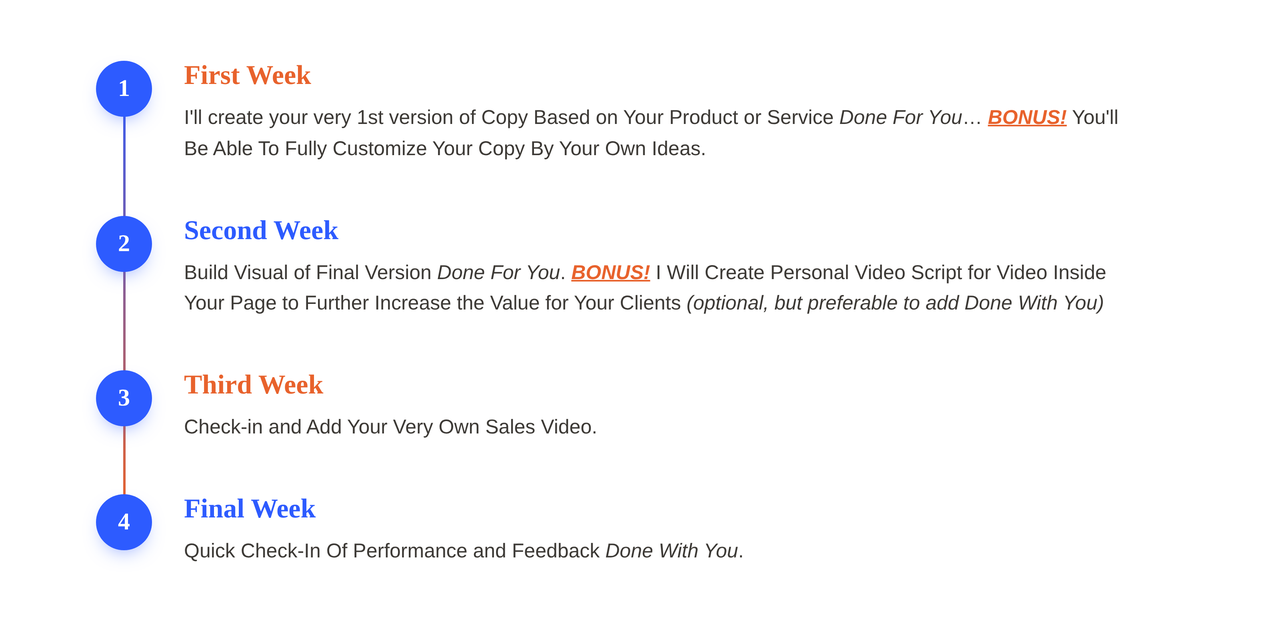
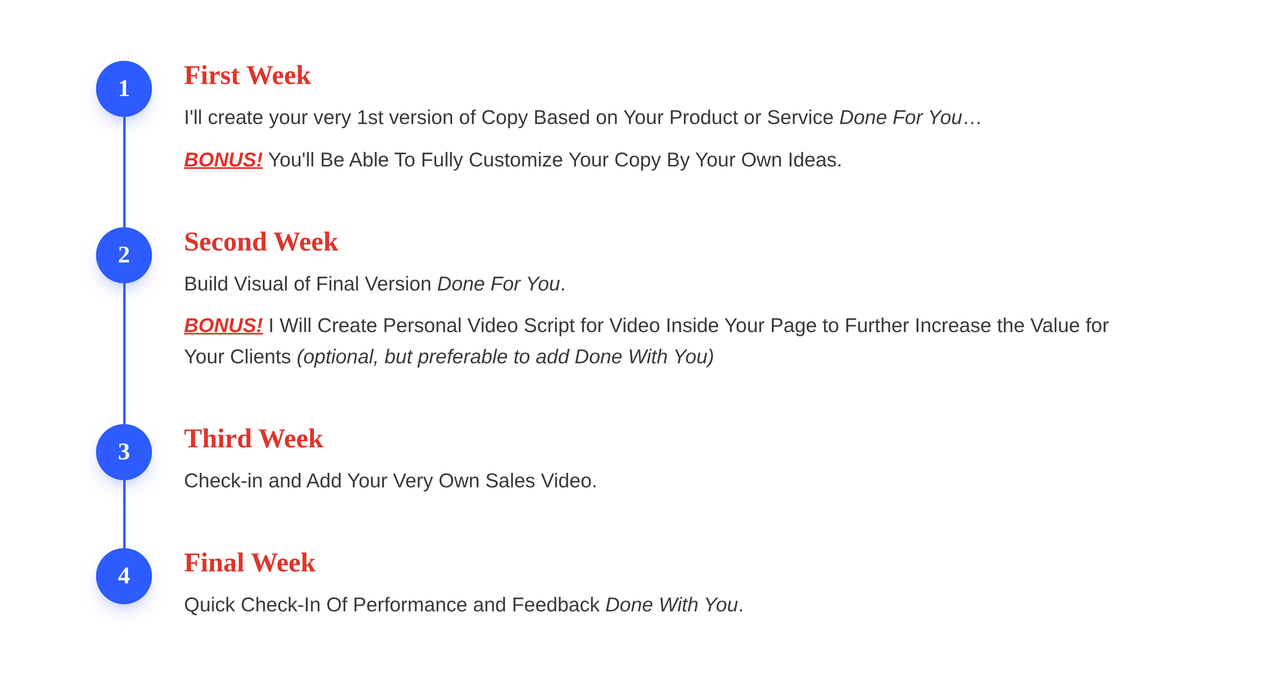
Color, sizing and layout follow-ups on /sales-page/
Fix the Rob Palmer quote's "act now" rendering black instead of
inheriting the quote's blue. Shift the second accent from orange to a
more saturated red (one CSS variable, applies everywhere it's used).
Enlarge and center the four "potential" stat lines and the "Special Way
of Structure" paragraph group to match the owner's reference sizing.
Regenerate the timeline graphic with separated sentences per week and
uniformly red week labels (was alternating blue/red, inconsistent with
the live text version). Push the desktop scale-up further — two
breakpoints, 1080px max container, larger type across headline, body,
buttons, quotes and headings — after the first pass still read as too
small on a real monitor.

diff --git a/public/assets/theme.css b/public/assets/theme.css
@@ -16,9 +16,9 @@
     /* second accent, used only on /sales-page/ for a subset of emphasis
        text (prices, week labels, "BONUS!") per the owner's reference —
        kept out of the shared palette above on purpose. */
-    --accent-2:#E8622C;
-    --accent-2-dark:#C94E1E;
-    --accent-2-tint:#FDECE3;
+    --accent-2:#E0342B;
+    --accent-2-dark:#B8241C;
+    --accent-2-tint:#FCE7E6;
     --success:#12996B;
     --success-tint:#E9F7F1;
     --warn:#C8382F;
@@ -876,10 +876,32 @@
   /* Desktop gets a wider column and a step up in type size — at 640px
      max-width the page reads fine on a phone but feels small and
      letterboxed on a real monitor. Mobile layout/sizing above is
-     untouched; this only kicks in once there's room to spare. */
+     untouched; this only kicks in once there's room to spare. Two tiers
+     so it keeps scaling up on genuinely large monitors instead of
+     capping out at the first bump. */
   @media(min-width:900px){
-    .sp-letter{max-width:760px;}
-    .sp-letter p{font-size:18px;}
+    .sp-letter{max-width:900px;padding:0 32px;}
+    .sp-letter p{font-size:20px;}
+    .sp-quote blockquote{font-size:20px;}
+    .sp-letter h2{font-size:26px;}
+    .btn, .sp-hero .btn{font-size:19px;padding:19px 34px;}
+    .sp-check-list li{font-size:19px;}
+    .sp-stack-row{font-size:17px;}
+    .sp-big{font-size:44px;}
+    .sp-potential-block p{font-size:27px !important;}
+    .sp-heading-lg{font-size:36px !important;}
+  }
+  @media(min-width:1280px){
+    .sp-letter{max-width:1080px;}
+    .sp-letter p{font-size:22px;}
+    .sp-quote blockquote{font-size:22.5px;}
+    .sp-letter h2{font-size:30px;}
+    .btn, .sp-hero .btn{font-size:20px;padding:21px 38px;}
+    .sp-check-list li{font-size:21px;}
+    .sp-stack-row{font-size:18.5px;}
+    .sp-big{font-size:50px;}
+    .sp-potential-block p{font-size:30px !important;}
+    .sp-heading-lg{font-size:40px !important;}
   }
 
   /* Each <section> is one topical beat, spaced by margin alone — see
@@ -929,7 +951,8 @@
     margin-bottom:20px;
   }
   @media(min-width:600px){.sp-h1{font-size:35px;}}
-  @media(min-width:900px){.sp-h1{font-size:42px;}}
+  @media(min-width:900px){.sp-h1{font-size:52px;}}
+  @media(min-width:1280px){.sp-h1{font-size:62px;}}
   .sp-h1 strong{font-weight:800;}
 
   /* highlighter marker behind "5 Minutes" */
@@ -956,6 +979,8 @@
     margin:0 auto 26px;text-align:left;
   }
   .sp-hero .btn{font-size:15.5px;padding:14px 30px;}
+  @media(min-width:900px){.sp-hero .because{font-size:19px;max-width:640px;}}
+  @media(min-width:1280px){.sp-hero .because{font-size:21px;max-width:720px;}}
 
   /* ---- pull-quotes ---- */
   /* Lightened from the earlier boxed/border-left treatment to a plain,
@@ -966,6 +991,11 @@
     font-family:Georgia,'Times New Roman',Times,serif;font-style:italic;
     font-size:17.5px;line-height:1.5;color:var(--accent);margin:0;
   }
+  /* .sp-letter strong sets every <strong> to --ink (black), which was
+     silently winning over this blockquote's blue on the "act now" bit —
+     same specificity, .sp-letter strong just happened to be declared
+     first. Force it back to the quote's own color here. */
+  .sp-quote blockquote strong{color:inherit;}
   .sp-quote-by{
     display:block;margin-top:9px;font-size:13.5px;font-style:normal;
     color:var(--ink-mute);letter-spacing:0.01em;
@@ -1058,18 +1088,25 @@
     text-decoration:underline;text-decoration-thickness:2px;text-underline-offset:2px;
   }
   /* oversized standalone stat line — "You Could Make $10 000!" */
-  .sp-big{font-size:24px;font-weight:800;display:block;color:var(--ink);}
+  .sp-big{font-size:32px;font-weight:800;display:block;color:var(--ink);line-height:1.25;}
+  @media(min-width:600px){.sp-big{font-size:38px;}}
   /* tight-set group of short stat/punch lines, read as one block rather
-     than as separate loosely-spaced paragraphs */
-  .sp-potential-block{margin-bottom:22px;}
-  .sp-potential-block p{margin-bottom:8px !important;}
+     than as separate loosely-spaced paragraphs — sized up well past body
+     text so the whole block reads as a hero stat, not regular copy */
+  .sp-potential-block{margin-bottom:26px;}
+  .sp-potential-block p{
+    font-size:21px !important;font-weight:700;line-height:1.4;
+    margin-bottom:10px !important;
+  }
+  @media(min-width:600px){.sp-potential-block p{font-size:24px !important;}}
   .sp-potential-block p:last-child{margin-bottom:0 !important;}
   .sp-centered{text-align:center;}
   /* larger centered stand-alone line — "Here You've Seen It ALL!" */
   .sp-heading-lg{
-    font-size:24px !important;font-weight:700;color:var(--ink);
+    font-size:28px !important;font-weight:700;color:var(--ink);
     text-align:center;
   }
+  @media(min-width:600px){.sp-heading-lg{font-size:32px !important;}}
 
   /* visually hidden but still present for screen readers, search engines
      and no-JS visitors — used where a graphic now carries the visible

diff --git a/public/sales-page/index.html b/public/sales-page/index.html
@@ -45,7 +45,7 @@
      stale copy well past that hour if the browser or CDN edge cached it
      before the edit. The query string is a new URL each bump, so it's a
      guaranteed-fresh fetch regardless of any cache in front of it. -->
-<link rel="stylesheet" href="/assets/theme.css?v=20260829e">
+<link rel="stylesheet" href="/assets/theme.css?v=20260829g">
 <script>
 (function(){
   var d = document.documentElement;
@@ -138,10 +138,12 @@
     <li><strong class="sp-hi">You've Seen</strong> That It's Important To Test…</li>
     <li><strong class="sp-hi">You've Seen</strong> That Effective Sales Page (Letter) Creates Genuine Urgency to ACT…</li>
   </ul>
-  <p>And Now You Get Details in The Secret Ultimate Sales Page Rapport Soon.</p>
-  <p>Once You Have This Rapport, It Will Only Take Quick 5 Minutes in Just 3 Clicks of Your Mouse to Get Into Huge Life-changing Opportunity.</p>
-  <p>I Would Like to Rush this Rapport in The Next 5 Minutes, totally free…</p>
-  <p><strong>The Only Service that Uses a <span class="sp-hi2">Special Way of Structure</span> That Holds TONS of Highly Converting Words.</strong></p>
+  <div class="sp-centered">
+    <p>And Now You Get Details in The Secret Ultimate Sales Page Rapport Soon.</p>
+    <p>Once You Have This Rapport, It Will Only Take Quick 5 Minutes in Just 3 Clicks of Your Mouse to Get Into Huge Life-changing Opportunity.</p>
+    <p>I Would Like to Rush this Rapport in The Next 5 Minutes, totally free…</p>
+    <p><strong>The Only Service that Uses a <span class="sp-hi2">Special Way of Structure</span> That Holds <em class="sp-under">TONS of Highly Converting Words</em>.</strong></p>
+  </div>
 
   <button class="btn" data-join>Save My Spot &rarr;</button>
 </section>
@@ -154,7 +156,7 @@
 
   <picture>
     <source srcset="/assets/sales-page-timeline.webp" type="image/webp">
-    <img src="/assets/sales-page-timeline.png" alt="A four-week timeline: First Week — copy draft, done for you. Second Week — visual build and video script. Third Week — check-in and add your sales video. Final Week — performance check-in and feedback." class="sp-timeline-img" width="1280" height="639" loading="lazy">
+    <img src="/assets/sales-page-timeline.png" alt="A four-week timeline: First Week — copy draft, done for you. Second Week — visual build and video script. Third Week — check-in and add your sales video. Final Week — performance check-in and feedback." class="sp-timeline-img" width="1280" height="693" loading="lazy">
   </picture>
 
   <!-- The graphic above is the only VISIBLE version of this content — the

diff --git a/docs/sales-page-copy-changes.md b/docs/sales-page-copy-changes.md
@@ -273,6 +273,40 @@ now carries a `?v=` query string bumped by hand on every edit, so each
 change is a new URL and therefore a guaranteed-fresh fetch regardless
 of what's cached in front of it. Other pages' links are untouched.
 
+## 13. Color/size/layout follow-up round — desktop still felt small
+
+Further owner feedback after #12 shipped:
+
+- The Rob Palmer quote's "act now" rendered black instead of blue like
+  the rest of the quote — `.sp-letter strong` (sets every `<strong>` to
+  ink/black) was winning over the quote's own blue by declaration
+  order at equal specificity. Fixed by forcing `<strong>` inside a
+  quote to inherit the quote's color instead.
+- The second accent color moved from orange (`#E8622C`) to a more
+  saturated red (`#E0342B`) — one CSS variable, so every use across the
+  page (week labels, "BONUS!", "Special Way of Structure", the timeline
+  graphic) updated together.
+- The four "potential" lines are far larger now (21–30px depending on
+  breakpoint, vs. 16.5px body text) to read as a hero stat block, not
+  regular copy — matching the size the owner's reference showed.
+- "The Only Service that Uses a Special Way of Structure That Holds
+  TONS of Highly Converting Words." plus the two "Rapport" lines above
+  it are now centered as a group, matching the reference; "TONS of
+  Highly Converting Words" is now italic + underlined to match too.
+- The timeline graphic (see #11) had two problems the owner caught:
+  each week's two sentences were run together in one paragraph inside
+  the image (regenerated with real spacing between them), and the week
+  labels alternated blue/red (now all red, matching the single-color
+  labels the live text version already used — the graphic was
+  inconsistent with the page, not the other way around).
+- Desktop still read as too small after #12's first pass. Pushed it
+  further: two breakpoints now (900px and 1280px) instead of one, the
+  container tops out at 1080px instead of 760px, and font sizes across
+  the page — body copy, the hero headline (up to 62px), buttons, quote
+  text, the h2, checklist items, the value-stack rows, and the "because"
+  paragraph under the hero — all scale up at each tier. Mobile sizing
+  is untouched throughout.
+
 ## Two things that must stay true
 
 Both are claims on the page, not decoration:
